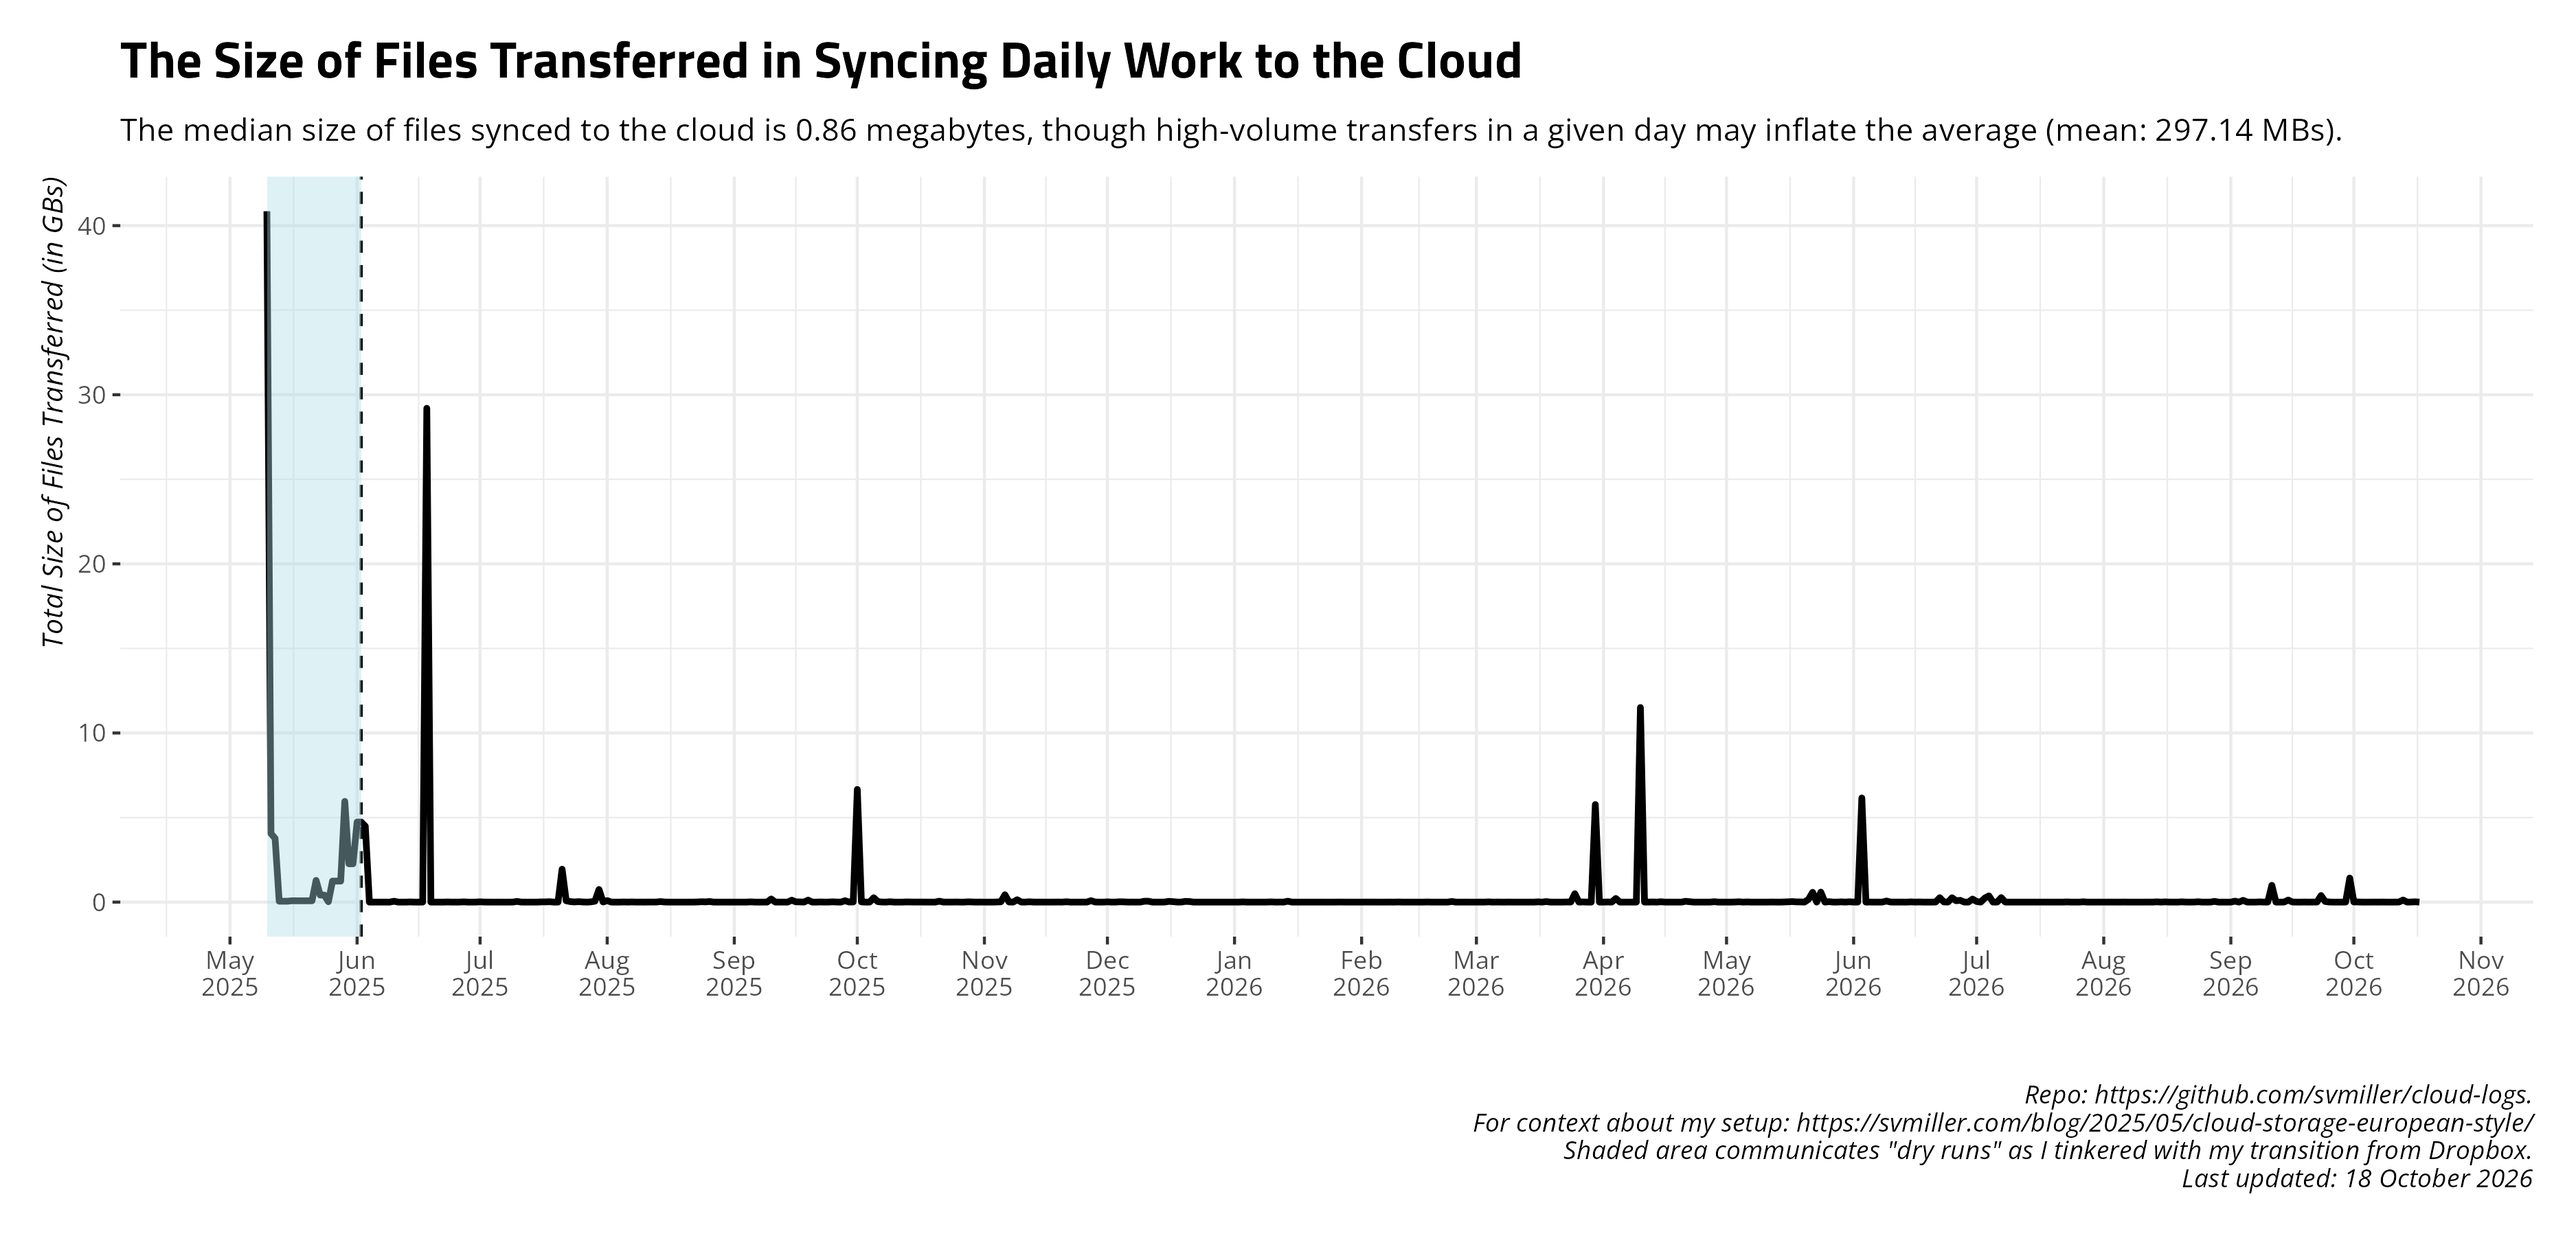
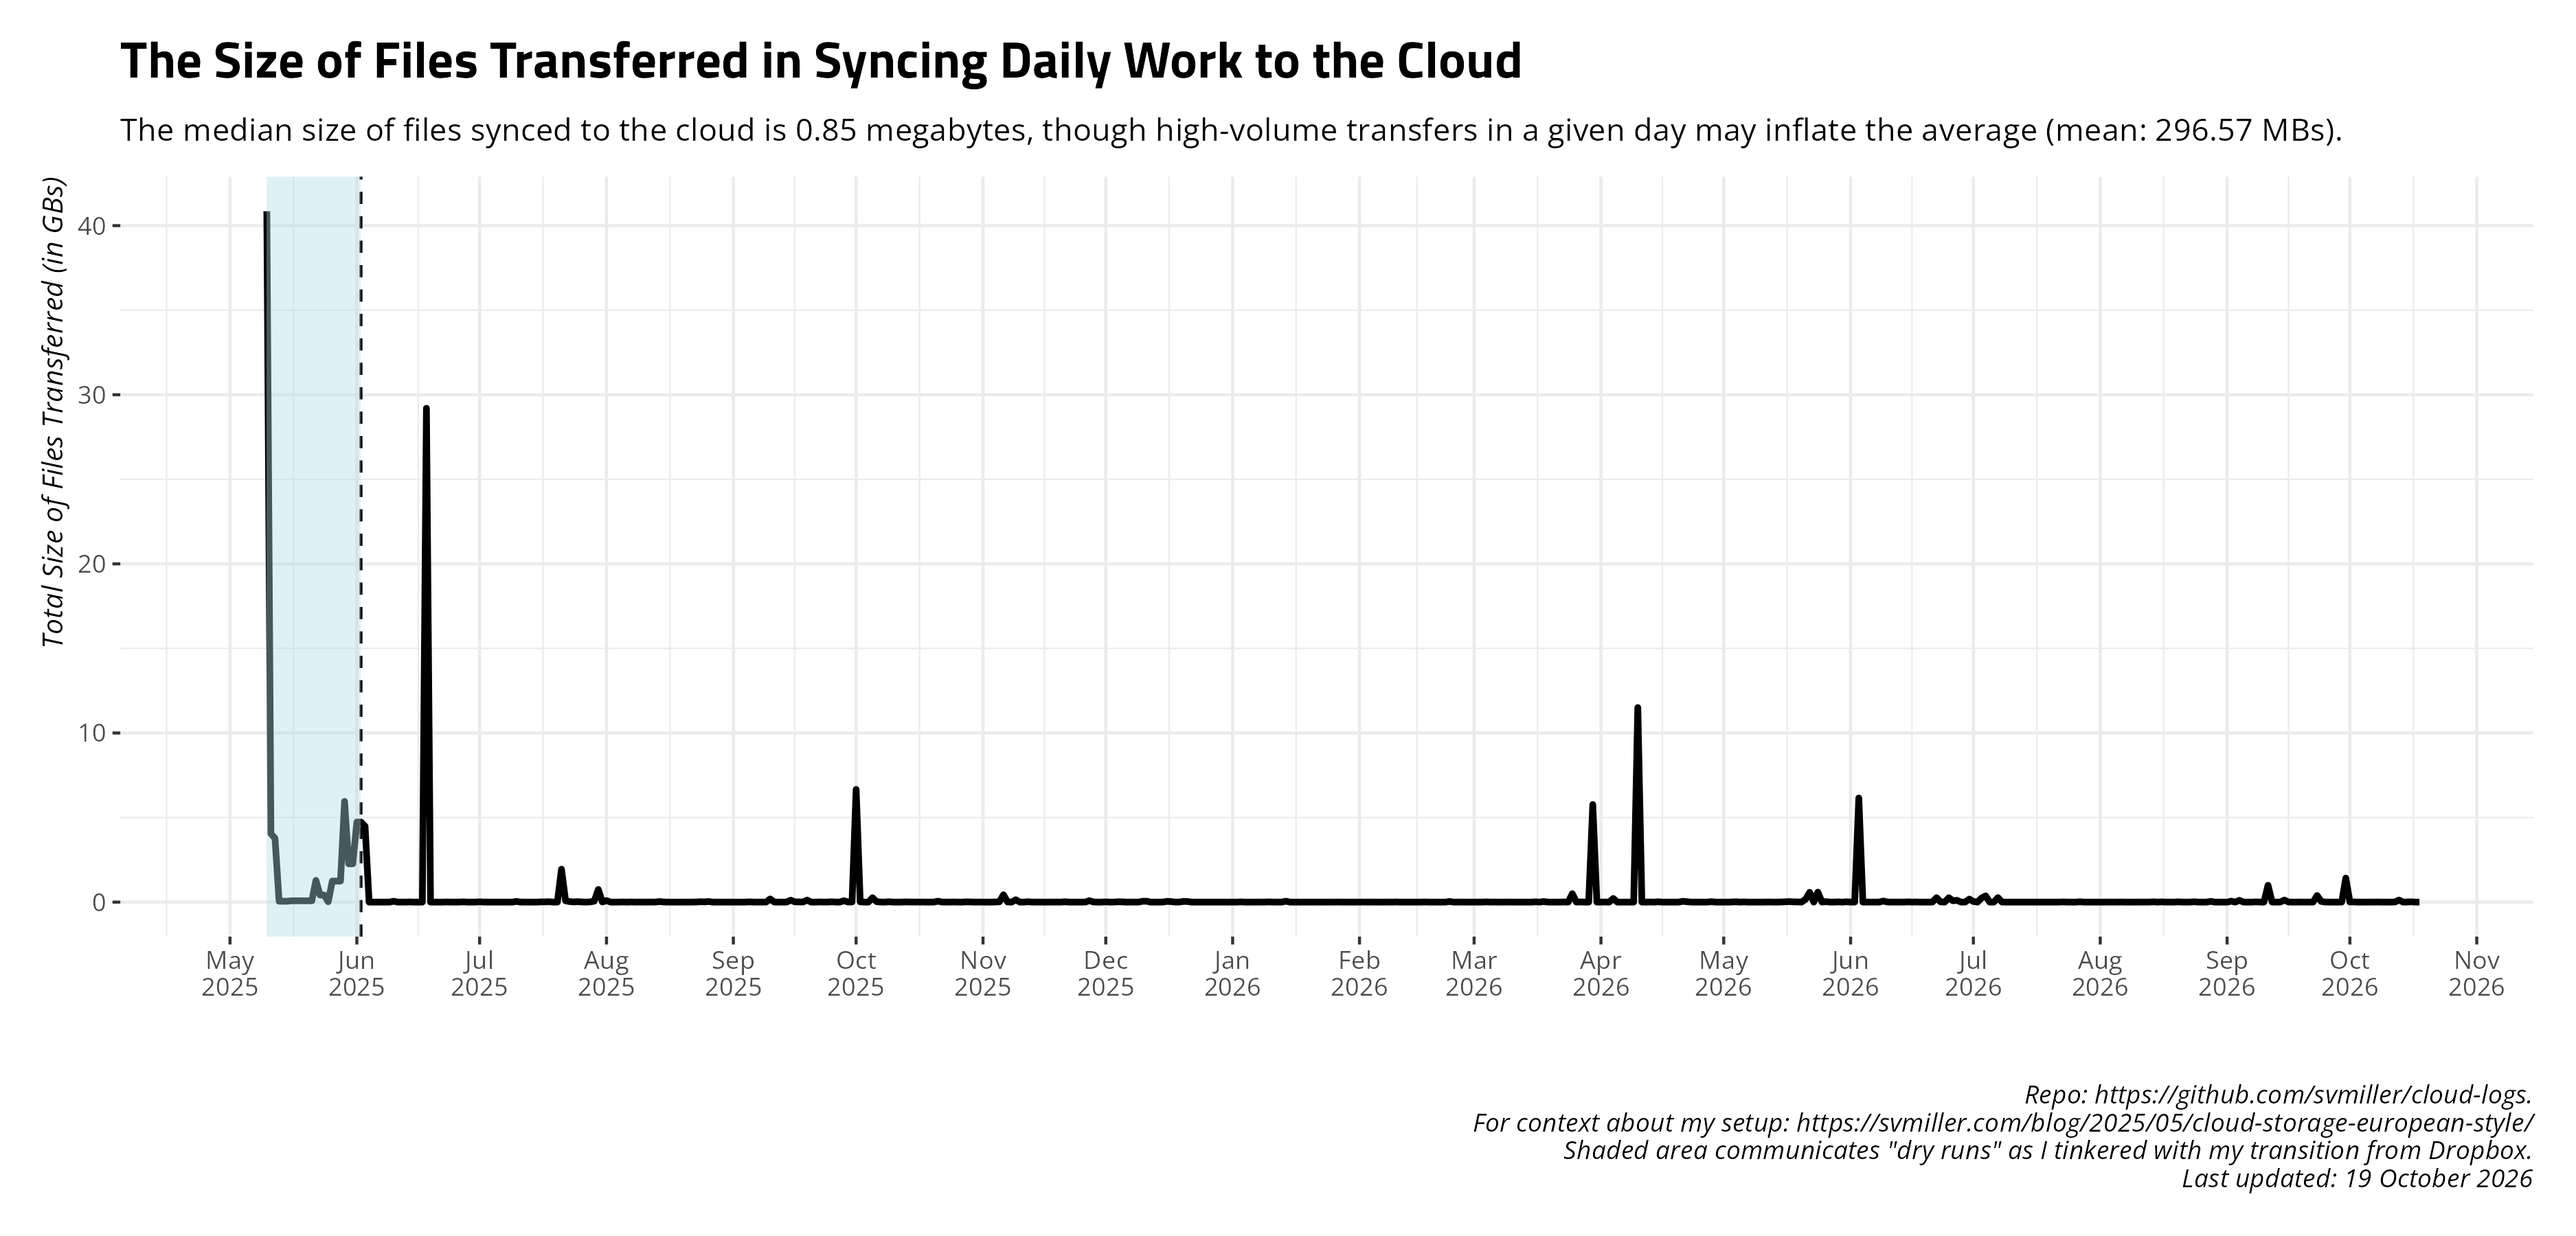
Date: 2026-10-19 09:00:36. Hi mom!

diff --git a/README.md b/README.md
@@ -27,17 +27,17 @@ and uploads to Github.
     #> # A tibble: 14 × 4
     #>    date       ftransfer stransfer   elapsed 
     #>    <date>         <dbl> <chr>       <chr>   
-    #>  1 2026-10-04         0 <NA>        5m49.6s 
-    #>  2 2026-10-05        20 250.633 KiB 5m33.2s 
-    #>  3 2026-10-06        29 1.902 MiB   4m55.6s 
-    #>  4 2026-10-07        20 1.280 MiB   4m34.0s 
-    #>  5 2026-10-08         5 4.005 MiB   5m32.5s 
-    #>  6 2026-10-09         1 4.059 KiB   4m49.4s 
-    #>  7 2026-10-10         0 <NA>        4m23.0s 
-    #>  8 2026-10-11         0 <NA>        4m47.3s 
-    #>  9 2026-10-12       112 4.979 MiB   10m31.4s
-    #> 10 2026-10-13         8 124.477 MiB 47m23.4s
-    #> 11 2026-10-14         0 <NA>        27m16.0s
-    #> 12 2026-10-15         9 5.339 MiB   26m53.8s
-    #> 13 2026-10-16       147 17.869 MiB  25m51.8s
-    #> 14 2026-10-17         0 <NA>        12m54.4s
+    #>  1 2026-10-05        20 250.633 KiB 5m33.2s 
+    #>  2 2026-10-06        29 1.902 MiB   4m55.6s 
+    #>  3 2026-10-07        20 1.280 MiB   4m34.0s 
+    #>  4 2026-10-08         5 4.005 MiB   5m32.5s 
+    #>  5 2026-10-09         1 4.059 KiB   4m49.4s 
+    #>  6 2026-10-10         0 <NA>        4m23.0s 
+    #>  7 2026-10-11         0 <NA>        4m47.3s 
+    #>  8 2026-10-12       112 4.979 MiB   10m31.4s
+    #>  9 2026-10-13         8 124.477 MiB 47m23.4s
+    #> 10 2026-10-14         0 <NA>        27m16.0s
+    #> 11 2026-10-15         9 5.339 MiB   26m53.8s
+    #> 12 2026-10-16       147 17.869 MiB  25m51.8s
+    #> 13 2026-10-17         0 <NA>        12m54.4s
+    #> 14 2026-10-18         0 <NA>        20m6.6s
